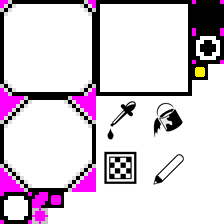
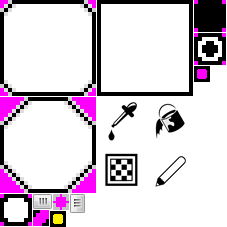
added scrollbar gui element

Changed region(s): [[0.0, 0.0, 1.0, 1.0], [0.6875, 0.6875, 0.8438, 0.8438], [0.0, 0.0, 0.0625, 0.0625]]

diff --git a/entities/gui/scrollbar.py b/entities/gui/scrollbar.py
@@ -1,0 +1,136 @@
+from enum import Enum
+import pygame
+from pygame import Rect
+from . import Button, Window, Anchor, Element
+from . import smart_draw
+from util import make_vector
+
+
+class ScrollbarType(Enum):
+    VERTICAL = 0,
+    HORIZONTAL = 1
+
+
+class _SliderButton(Button):
+    def __init__(self, relative_position, size, owner, background, mouseover_image):
+        font = pygame.font.SysFont(None, 12)  # not used, dummy value
+
+        super().__init__(relative_position, size, background, font,
+                         anchor=Anchor.CENTER, mouseover_image=mouseover_image)
+
+        self.scrollbar = owner
+
+        # state
+        self._is_dragging = False
+
+    def handle_event(self, evt, game_events):
+        if evt.type == pygame.MOUSEBUTTONDOWN:
+            within_button = self.rect.collidepoint(evt.pos)
+
+            if within_button:
+                self.consume(evt)
+
+            self._is_dragging = within_button
+        elif evt.type == pygame.MOUSEMOTION and self._is_dragging:
+            self.scrollbar.on_slider_moved(evt.pos)
+            self.consume(evt)
+        elif evt.type == pygame.MOUSEBUTTONUP:
+            self._is_dragging = False
+
+        super().handle_event(evt, game_events)
+
+
+class Scrollbar(Element):
+    VERTICAL_WIDTH = 16
+    HORIZONTAL_HEIGHT = 16
+
+    def __init__(self, relative_position, sb_type, width_or_height, sb_background,
+                 sb_button_background, sb_max_value, sb_min_value=0, sb_button_mouseover=None):
+        if sb_type == ScrollbarType.VERTICAL:
+            initial_rect = Rect(*relative_position, Scrollbar.VERTICAL_WIDTH, width_or_height)
+        else:
+            initial_rect = Rect(*relative_position, width_or_height, Scrollbar.HORIZONTAL_HEIGHT)
+
+        super().__init__(relative_position, initial_rect)
+
+        assert sb_min_value <= sb_max_value
+
+        self.sb_type = sb_type
+        self.background = sb_background
+        self.sb_button = sb_button_background
+        self.max_value = sb_max_value
+        self.min_value = sb_min_value
+        self._delta_value = sb_max_value - sb_min_value
+        self.current_value = sb_min_value
+
+        # create slider button
+        self.slider = _SliderButton(make_vector(self.width // 2, self.height // 2), None, self, sb_button_background, sb_button_mouseover)
+        self.add_child(self.slider)
+
+        self.layout()
+
+    def draw(self, screen):
+        smart_draw(screen, self.background, self.get_absolute_rect())
+        super().draw(screen)
+
+    def update(self, dt):
+        pass
+
+    def on_slider_moved(self, absolute):
+        if self.sb_type == ScrollbarType.VERTICAL:
+            # try to align thumb button with y mouse coordinates
+            thumb_pos = pygame.Vector2(*self.slider.rect.center)
+            thumb_pos.y = absolute[1]
+
+            relative = thumb_pos - pygame.Vector2(*self.rect.center)
+
+            if relative.y < 0:
+                relative.y = 0
+            elif relative.y > self.height:
+                relative.y = self.height
+
+            # compute ratio of sb movement on bar
+            ratio = relative.y / self.height
+
+            self.value = ratio * self._delta_value + self.min_value
+
+        elif self.sb_type == ScrollbarType.HORIZONTAL:
+            # try to align thumb button with x mouse coordinates
+            thumb_pos = pygame.Vector2(*self.slider.rect.center)
+            thumb_pos.x = absolute[0]
+
+            relative = thumb_pos - pygame.Vector2(*self.rect.center)
+
+            if relative.x < 0:
+                relative.x = 0
+            elif relative.x > self.width:
+                relative.x = self.width
+
+            # compute ratio of sb movement on bar
+            ratio = relative.x / self.width
+
+            self.value = ratio * self._delta_value + self.min_value
+
+    @property
+    def value(self):
+        return self.current_value
+
+    @value.setter
+    def value(self, new_value):
+        self.current_value = new_value
+
+        # position slider for new value
+        # map value into 0...1 range
+        delta = self.max_value - self.min_value
+
+        if delta > 0:
+            ratio = (new_value - self.min_value) / (self.max_value - self.min_value)
+        else:
+            ratio = 0.
+
+        if self.sb_type == ScrollbarType.HORIZONTAL:
+            self.slider.relative_position.x = self.width * ratio
+        else:
+            self.slider.relative_position.y = self.height * ratio
+
+        self.layout()

diff --git a/editor/dialogs/tile_dialog.py b/editor/dialogs/tile_dialog.py
@@ -1,5 +1,6 @@
 import pygame
-from entities.gui import Text, Texture, Window, Dialog, Button, Option, OptionGroup, Anchor, ScrollableContents
+from entities.gui import Text, Texture, Window, Dialog, Button, Option, OptionGroup, Anchor, \
+    ScrollableContents, ScrollbarType, Scrollbar
 import config
 from util import make_vector
 
@@ -7,7 +8,7 @@ from util import make_vector
 
 
 class TileDialog(Dialog):
-    SIZE = (128, 256)
+    SIZE = (256, 256)
 
     def __init__(self, assets):
         font = pygame.font.SysFont(None, 24)
@@ -46,17 +47,34 @@ class TileDialog(Dialog):
 
         self.scrollable = ScrollableContents(
             make_vector(10, self.up.rect.height + self.get_title_bar_bottom()),
-            (TileDialog.SIZE[0] - 20, TileDialog.SIZE[1] - self.get_title_bar_bottom() - self.up.rect.height - 10),
+            (TileDialog.SIZE[0] - 30, TileDialog.SIZE[1] - self.get_title_bar_bottom() - self.up.rect.height - 20),
             temp_surf
         )
+
+        self.layout()  # ensure scrollable is positioned
 
         def down_click():
             self.scrollable.set_scroll(self.scrollable.get_scroll() + make_vector(1, 1))
 
         self.down.on_click = down_click
 
+        # create scrollbars
+        self.vertical_scroll = Scrollbar(make_vector(self.scrollable.rect.right, self.scrollable.rect.top),
+                                         ScrollbarType.VERTICAL, self.scrollable.rect.height,
+                                         assets.gui_atlas.load_sliced("control_small_block2"),
+                                         assets.gui_atlas.load_sliced("sb_thumb_v"), 100,
+                                         sb_button_mouseover=assets.gui_atlas.load_sliced("sb_thumb_v_hl"))
+
+        self.horizontal_scroll = Scrollbar(make_vector(self.scrollable.rect.left, self.scrollable.rect.bottom),
+                                           ScrollbarType.HORIZONTAL, self.scrollable.rect.width,
+                                           assets.gui_atlas.load_sliced("control_small_block2"),
+                                           assets.gui_atlas.load_sliced("sb_thumb_h"), 100,
+                                           sb_button_mouseover=assets.gui_atlas.load_sliced("sb_thumb_h_hl"))
+
         self.add_child(self.down)
         self.add_child(self.up)
         self.add_child(self.scrollable)
+        self.add_child(self.vertical_scroll)
+        self.add_child(self.horizontal_scroll)
 
         self.layout()

diff --git a/assets/load.py b/assets/load.py
@@ -85,6 +85,8 @@ def load_gui_atlas():
     load_slice("control_small", "control_small_hl", (7, 7), **kwargs)
     load_slice("control_small_block", "control_small_block_hl", (7, 7), **kwargs)
     load_slice("control_small_block2", "control_small_block2_hl", (7, 7), **kwargs)
+    load_slice("sb_thumb_h", "sb_thumb_h_hl", (4, 4), **kwargs)
+    load_slice("sb_thumb_v", "sb_thumb_v_hl", (4, 4), **kwargs)
 
     atlas.initialize_static("option_button", **kwargs)
     atlas.initialize_static("option_button_checked_heavy", **kwargs)
@@ -95,7 +97,7 @@ def load_gui_atlas():
     def load_tool_static(name, hl_name):
         atlas.initialize_static(name)
         atlas.initialize_static_from_surface(hl_name, generated_selected_version_circle(atlas.load_static(name).image,
-                                                                                 pygame.Color('yellow')))
+                                                                                        pygame.Color('yellow')))
 
     load_tool_static("pencil", "pencil_hl")
     load_tool_static("paint", "paint_hl")

diff --git a/entities/gui/button.py b/entities/gui/button.py
@@ -24,7 +24,6 @@ class Button(Element):
             self._text = Text(make_vector(size[0] // 2, size[1] // 2), text, font, text_color, anchor=Anchor.CENTER)
 
             self.add_child(self._text)
-            #self._text.layout()
 
         self.on_click = on_click_callback
         self._click_down = False
@@ -32,8 +31,7 @@ class Button(Element):
         self.layout()
 
     def draw(self, screen):
-        #smart_draw(screen, self._background if not self._mouseover else self._background_mouseover, self.rect)
-        smart_draw(screen, (255, 0, 0), self.rect)
+        smart_draw(screen, self._background if not self._mouseover else self._background_mouseover, self.rect)
 
         super().draw(screen)
 
@@ -58,7 +56,7 @@ class Button(Element):
                 self._click_down = False
 
         if evt.type == pygame.MOUSEMOTION:
-            self._mouseover = self.get_absolute_rect().collidepoint(*evt.pos)
+            self._mouseover = self.rect.collidepoint(*evt.pos)
 
     def clicked(self):
         if self.on_click:

diff --git a/entities/gui/__init__.py b/entities/gui/__init__.py
@@ -9,6 +9,8 @@ from .frame import Frame
 from .drawing import smart_draw
 from .option import Option, OptionGroup
 from .scrollable_contents import ScrollableContents
+from .scrollbar import Scrollbar, ScrollbarType
 
 __all__ = ['Element', 'Anchor', 'Text', 'Window', 'SlicedImage', 'Button',
-           'Texture', 'Dialog', 'Frame', 'smart_draw', 'Option', 'OptionGroup', 'ScrollableContents']
+           'Texture', 'Dialog', 'Frame', 'smart_draw', 'Option', 'OptionGroup',
+           'ScrollableContents', 'Scrollbar', 'ScrollbarType']
